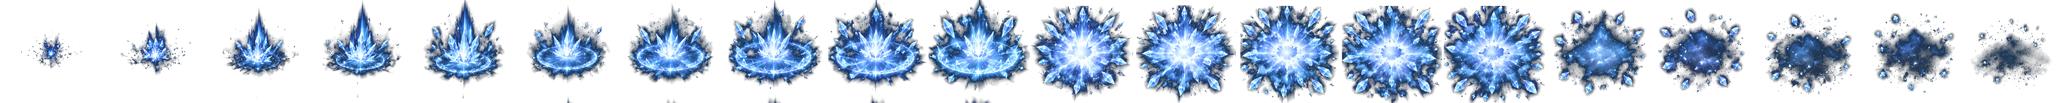
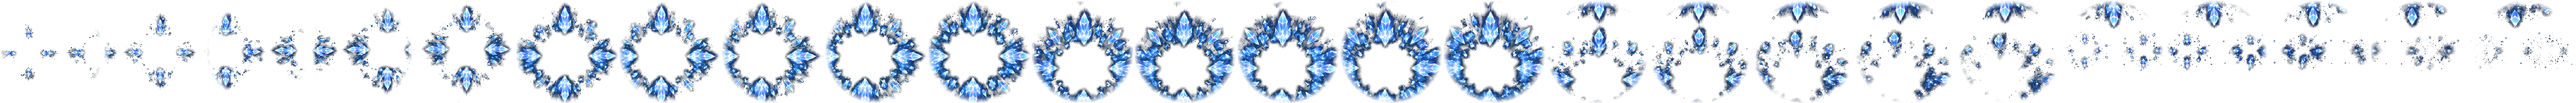
❄ Explosão Glacial: folha nova, um anel em volta do personagem
"Substitua a sprite da explosão glacial também por essa; ela deve ser só em
volta do personagem."

A arte nova é um ANEL com um buraco no meio — o mago aparece por ele. Com ela a
escala caiu de 1,7 para 0,95: 5,7 tiles contra os 5×5 que a magia machuca. A 1,7
o mago ficava perdido dentro de um círculo de gelo do tamanho da tela.

🔴 O CORTE CUSTOU QUATRO TENTATIVAS, todas pela mesma causa: O PERFIL DE UM ANEL
É BIMODAL. Ele tem dois picos (as laterais, onde estão os cristais) e um vale no
meio (o buraco). Procurar o máximo gruda o centro numa borda — os cinco saíram
em 142, 489, 669, 1017 e 1294, com passo oscilando entre 180 e 347 onde ele é
275 cravado. Procurar o centro de massa numa janela larga o bastante para achar
o anel certo também alcança os vizinhos, porque nesta folha os anéis são MAIORES
que o passo entre eles.

✅ O que funciona é medir as PONTAS. Os quadros de uma folha são regularmente
espaçados — é o que faz dela uma folha. O primeiro e o último desenho estão
isolados por construção (não têm vizinho de um dos lados); medidos os dois, o
resto sai por interpolação. Um erro de meia dúzia de pixels no meio da escada é
invisível; um de 70 px corta o anel ao meio, que foi o que as três primeiras
tentativas fizeram.

⚠ E a cerca do recorte virou REDONDA: como o efeito é radial, apagar o que passa
do raio não tira nada dele — e leva junto o vizinho que entra pelo canto da
janela quadrada.

Conferido em canvas contra a área de dano e uma silhueta: o anel envolve o
[…]

diff --git a/client/src/main.ts b/client/src/main.ts
@@ -3112,11 +3112,17 @@ async function startGame(playerName: string, charClass: PlayerClass, gender: Gen
      * cair nos pés do mago é o meio do quadro. Os 0,72 dos buffs existem porque
      * lá o anel fica a 72 % da altura; aqui isso jogaria o gelo para cima.
      *
-     * ⚠ **Escala 1,7: a área de dano tem 5×5 tiles (160 px)** e o quadro tem
-     * 192 — a 1,0 a arte ficaria MENOR que o golpe. A 1,7 são 326 px, um pouco
-     * mais que a área, que é a margem de drama que o resto do jogo usa.
+     * 🔴 **Escala 0,95, e era 1,7.** A folha foi trocada em 13/09 por um ANEL, e
+     * o pedido veio com ela: *"ela deve ser só em volta do personagem"*. A arte
+     * velha era um estouro que se justificava grande; a nova tem um buraco no
+     * meio por onde o mago aparece, e esse buraco só funciona se o anel couber
+     * perto dele.
+     *
+     * ⚠ 182 px são 5,7 tiles, contra os 5×5 (160 px) que a magia machuca — a
+     * margem de drama de sempre, e nada além dela. A 1,7 o anel tinha dez tiles:
+     * o mago ficava perdido dentro de um círculo de gelo do tamanho da tela.
      */
-    glacial_burst: { ancoraY: 0.5, escala: 1.7, dur: 700 },
+    glacial_burst: { ancoraY: 0.5, escala: 0.95, dur: 800 },
   };
 
   function tocaEfeito(nome: string, wx: number, wy: number): void {

diff --git a/docs/HISTORICO.md b/docs/HISTORICO.md
@@ -186,6 +186,27 @@ nível"* justamente para obrigar a segunda exceção a se defender. A defesa: os
 o mesmo argumento (frequência é a razão de ser da habilidade) e freios diferentes — a Esfera
 pelo GCD, a Glacial pelo SP.
 
+### 🔄 A folha da Glacial foi trocada no mesmo dia, e o cortador aprendeu a escada
+
+*"Substitua a sprite da explosão glacial também por essa; ela deve ser só em volta do
+personagem"*. A arte nova é um ANEL com um buraco no meio — o mago aparece por ele —, e com
+ela a escala caiu de 1,7 para 0,95: 5,7 tiles contra os 5×5 que a magia machuca. A 1,7 o
+mago ficava perdido dentro de um círculo de gelo do tamanho da tela.
+
+🔴 **E o corte custou quatro tentativas, todas pela mesma causa: o perfil de um ANEL é
+BIMODAL.** Ele tem dois picos (as laterais, onde estão os cristais) e um vale no meio (o
+buraco). Procurar o máximo gruda o centro numa borda; procurar o centro de massa numa janela
+larga o bastante para achar o anel certo também alcança os vizinhos, porque nesta folha os
+anéis são MAIORES que o passo entre eles.
+
+✅ **O que funciona é medir as PONTAS.** Os quadros de uma folha são regularmente espaçados —
+é o que faz dela uma folha. O primeiro e o último desenho estão isolados por construção (não
+têm vizinho de um dos lados); medidos os dois, o resto sai por interpolação. Um erro de meia
+dúzia de pixels no meio da escada é invisível; um de 70 px corta o anel ao meio, que foi o
+que as três primeiras tentativas fizeram.
+
+⚠ **E a cerca virou REDONDA.** Como o efeito é radial, apagar o que passa do raio não tira
+nada dele — e leva junto o vizinho que entra pelo canto da janela quadrada.
 ### ❄ E um cortador novo, `nova2fx`
 
 A folha é 5×4 sobre preto CHAPADO (mediana 0), o caso fácil. O que muda é a **âncora**: no
